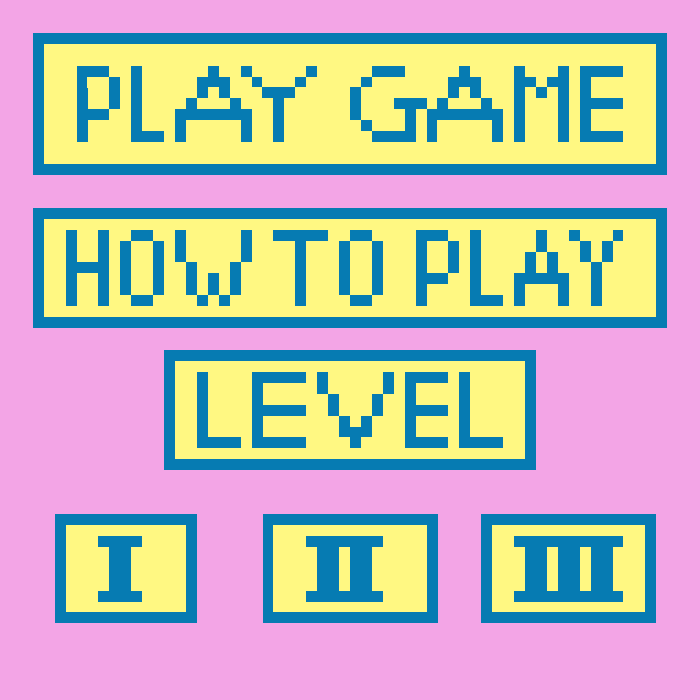
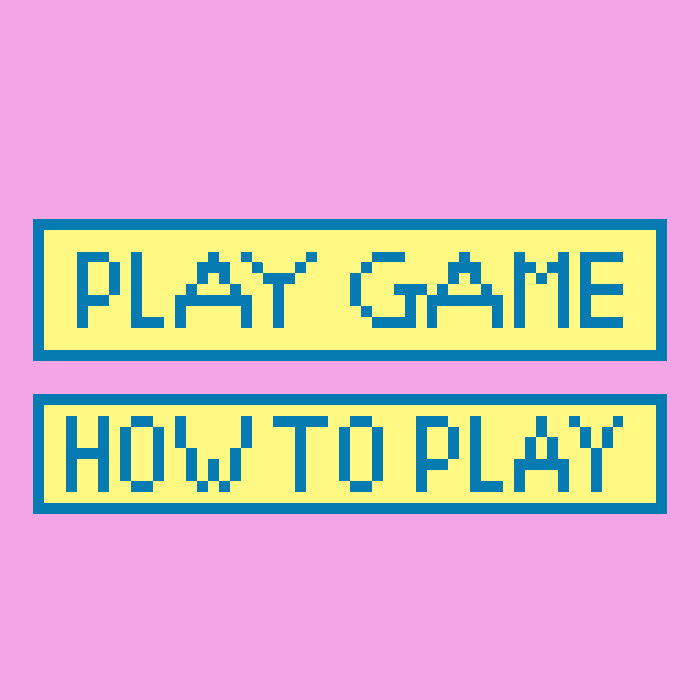
game_ctn

diff --git a/game.h b/game.h
@@ -1,6 +1,7 @@
 #ifndef GAME_H
 #define GAME_H
 
+#include <bits/stdc++.h>
 #include "defs.h"
 #include <SDL.h>
 #include "defs.h"
@@ -33,7 +34,7 @@ struct Mouse {
 
 // ==== Game System ====
 
-enum class GameState { MENU, PLAY, PAUSE, GAMEOVER };
+enum class GameState { MENU, PLAY, PAUSE, GAMEOVER,TTR };
 
 // Các biến toàn cục
 inline GameState gameState;
@@ -43,6 +44,9 @@ inline ScrollingBackground bg;
 inline Sprite car, car_left, car_right;
 inline Sprite* currentCar;
 inline SDL_Texture* menuTexture;
+inline SDL_Texture* ttrTexture;
+inline SDL_Texture* pauseTexture;
+inline SDL_Texture* ppTexture;
 
 
 // ==== Khởi tạo game ====
@@ -50,15 +54,26 @@ inline void setupGame(Graphics& graphics) {
 
     bg.setTexture(graphics.loadTexture(BACKGROUND_IMG));
     menuTexture = graphics.loadTexture("graphics/background/menu.png");
+    ttrTexture  = graphics.loadTexture("graphics/background/ttr.png");
+    pauseTexture  = graphics.loadTexture("graphics/background/pause.png");
+    ppTexture  = graphics.loadTexture("graphics/background/point_pause.png");
 
     car.init(graphics.loadTexture(CAR_SPRITE_FILE), CAR_FRAMES, CAR_CLIPS);
     car_left.init(graphics.loadTexture("graphics/player/car_left.png"), CAR_FRAMES, CAR_CLIPS);
     car_right.init(graphics.loadTexture("graphics/player/car_right.png"), CAR_FRAMES, CAR_CLIPS);
     currentCar = &car;
 
-    initObstacles(graphics,7);
+    initObstacles(graphics,8);
 
     gameState = GameState::MENU;
+}
+
+inline void resetGame(Graphics& graphics) {
+    player = Mouse();
+    currentCar = &car;
+
+    clearObstacles();
+    initObstacles(graphics, 8);
 }
 
 // ==== Xử lý sự kiện (phím bấm) ====
@@ -66,31 +81,74 @@ inline void handleEvents(Graphics& graphics) {
     SDL_Event e;
     while (SDL_PollEvent(&e)) {
         if (e.type == SDL_QUIT) quit = true;
-        else if (e.type == SDL_KEYDOWN) {
-                if (e.key.keysym.sym == SDLK_ESCAPE && gameState==GameState::PLAY) {
-                if (gameState == GameState::PLAY) gameState = GameState::PAUSE;
-                else if (gameState == GameState::PAUSE) gameState = GameState::PLAY;
+
+        if (e.type == SDL_KEYDOWN) {
+            if (e.key.keysym.sym == SDLK_ESCAPE && gameState == GameState::PLAY) {
+                gameState = GameState::PAUSE;
             }
+        }
+
+        if (e.type == SDL_MOUSEBUTTONDOWN) {
+            int mouseX = e.button.x;
+            int mouseY = e.button.y;
+
+            if (gameState == GameState::MENU) {
+                if (mouseX >= 33 && mouseX <= 666 && mouseY >= 219 && mouseY <= 360) {
+                    resetGame(graphics);
+                    gameState = GameState::PLAY;
+                }
+                else if (mouseX >= 33 && mouseX <= 666 && mouseY >= 394 && mouseY <= 513) {
+                    gameState = GameState::TTR;
+                }
+            }
+
+            if (gameState == GameState::TTR) {
+                if (mouseX >= 0 && mouseX <= 93 && mouseY >= 0 && mouseY <= 62) {
+                    gameState = GameState::MENU;
+                }
+            }
+            if (gameState == GameState::PAUSE) {
+                if (mouseX >= 109 && mouseX <= 509 && mouseY >= 131 && mouseY <= 272) {
+                    gameState = GameState::PLAY;
+                }
+            }
+            if (gameState == GameState::PAUSE) {
+                if (mouseX >= 109 && mouseX <= 590 && mouseY >= 306 && mouseY <= 426) {
+                    resetGame(graphics);
+                    gameState = GameState::PLAY;
+                }
+            }
+            if (gameState == GameState::PAUSE) {
+                if (mouseX >= 0 && mouseX <= 590 && mouseY >= 459 && mouseY <= 579) {
+                    gameState = GameState::MENU;
+                }
+            }
+
+        }
+        if (gameState == GameState::GAMEOVER) {
+
+            gameState = GameState::MENU;
+            resetGame(graphics);
         }
     }
 }
 
-
 // ==== Cập nhật di chuyển ====
 inline void updateGame() {
     const Uint8* keys = SDL_GetKeyboardState(NULL);
-    if (keys[SDL_SCANCODE_LEFT]) { player.turnWest(); currentCar = &car_left; }
-    else if (keys[SDL_SCANCODE_RIGHT]) { player.turnEast(); currentCar = &car_right; }
-    else if (keys[SDL_SCANCODE_UP]) { player.turnNorth(); currentCar = &car; }
-    else if (keys[SDL_SCANCODE_DOWN]) { player.turnSouth(); currentCar = &car; }
+    if (keys[SDL_SCANCODE_A]) { player.turnWest(); currentCar = &car_left; }
+    else if (keys[SDL_SCANCODE_D]) { player.turnEast(); currentCar = &car_right; }
+    else if (keys[SDL_SCANCODE_W]) { player.turnNorth(); currentCar = &car; }
+    else if (keys[SDL_SCANCODE_S]) { player.turnSouth(); currentCar = &car; }
     else { player.stop(); currentCar = &car; }
 
     player.move();
-    bg.scroll(15);
+    bg.scroll(12);
     updateObstacles();
 
     if (checkPlayerCollision(player.getRect()))
         gameState = GameState::GAMEOVER;
+
 }
 
 // ==== Vẽ màn hình ====
@@ -98,10 +156,20 @@ inline void renderGame(Graphics& graphics) {
     graphics.prepareScene();
 
     if (gameState == GameState::MENU) {
-        graphics.renderTexture(menuTexture, 0, 0);
+
+    graphics.renderTexture(menuTexture, 0, 0);
+    }
+    if (gameState == GameState::TTR) {
+
+    graphics.renderTexture(ttrTexture, 0, 0);
+    }
+
+    if (gameState == GameState::PAUSE) {
+        graphics.renderTexture(pauseTexture, 0, 0);
     }
 
     if(gameState==GameState::PLAY){
+        graphics.renderTexture(ppTexture,0,0);
         graphics.render_background(bg);
         currentCar->tick();
         graphics.render_car(player.x, player.y, *currentCar);
